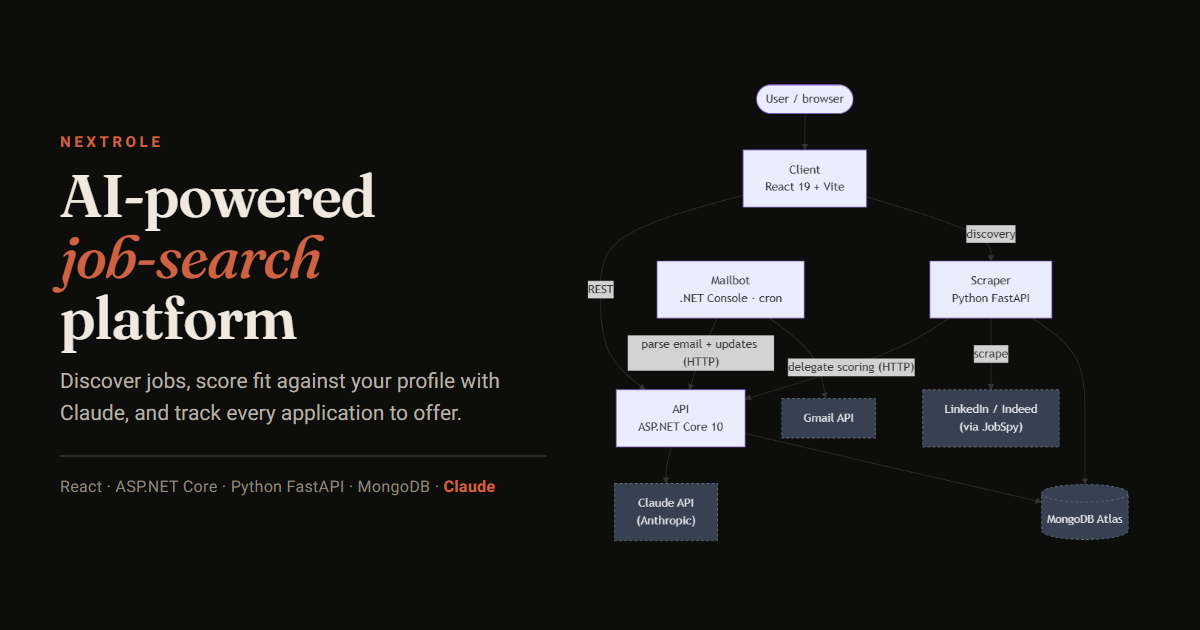
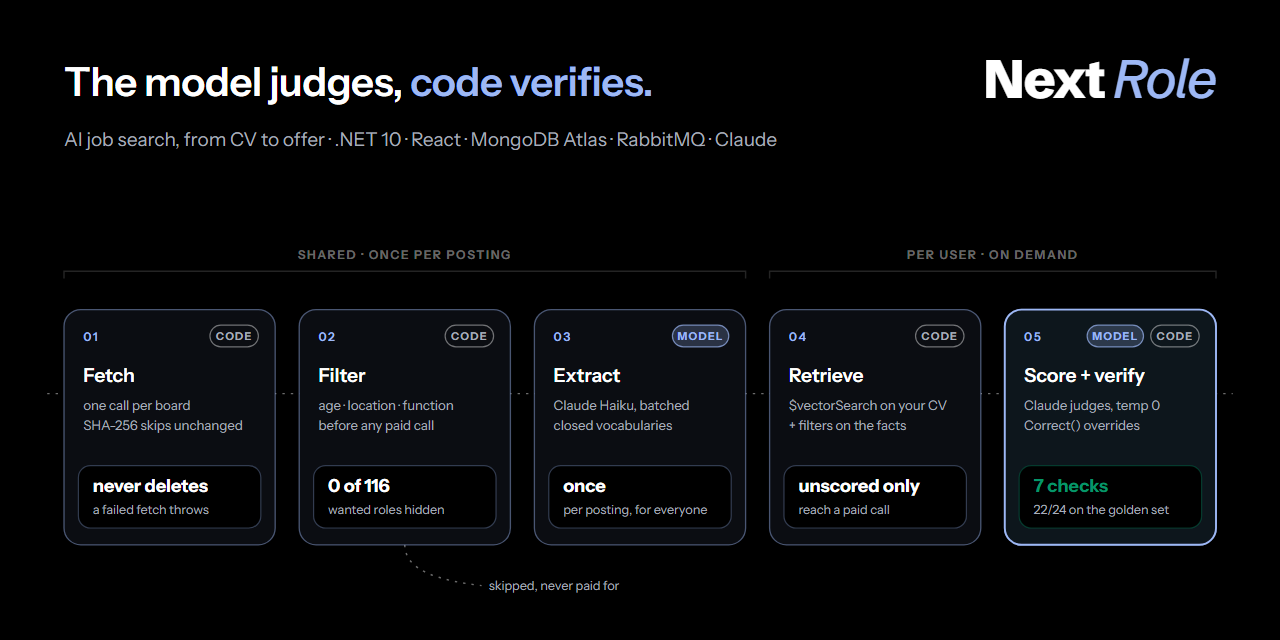
Refresh the social cards from the README diagrams
og.png (nextrole.cloud link preview) shows the 3D pipeline scene with
the current tagline; docs/repo-card.png (GitHub social preview) shows
the five-stage pipeline. The old cards showed the retired read-only demo,
LinkedIn/Indeed and a Python scraper. Bumps og.png to v=7 so link
previews refetch.

diff --git a/client/index.html b/client/index.html
@@ -14,7 +14,7 @@
     <meta property="og:description" content="Discover jobs, score fit against your profile with Claude, and track every application from discovery to offer." />
     <meta property="og:url" content="https://nextrole.cloud" />
     <!-- Bump ?v= when og.png changes — social crawlers cache the image aggressively -->
-    <meta property="og:image" content="https://nextrole.cloud/og.png?v=6" />
+    <meta property="og:image" content="https://nextrole.cloud/og.png?v=7" />
     <meta property="og:image:width" content="1200" />
     <meta property="og:image:height" content="630" />
 
@@ -22,7 +22,7 @@
     <meta name="twitter:card" content="summary_large_image" />
     <meta name="twitter:title" content="NextRole — AI-powered job-search platform" />
     <meta name="twitter:description" content="Discover jobs, score fit against your profile with Claude, and track every application from discovery to offer." />
-    <meta name="twitter:image" content="https://nextrole.cloud/og.png?v=6" />
+    <meta name="twitter:image" content="https://nextrole.cloud/og.png?v=7" />
 
     <link rel="preconnect" href="https://fonts.googleapis.com" />
     <link rel="preconnect" href="https://fonts.gstatic.com" crossorigin />
